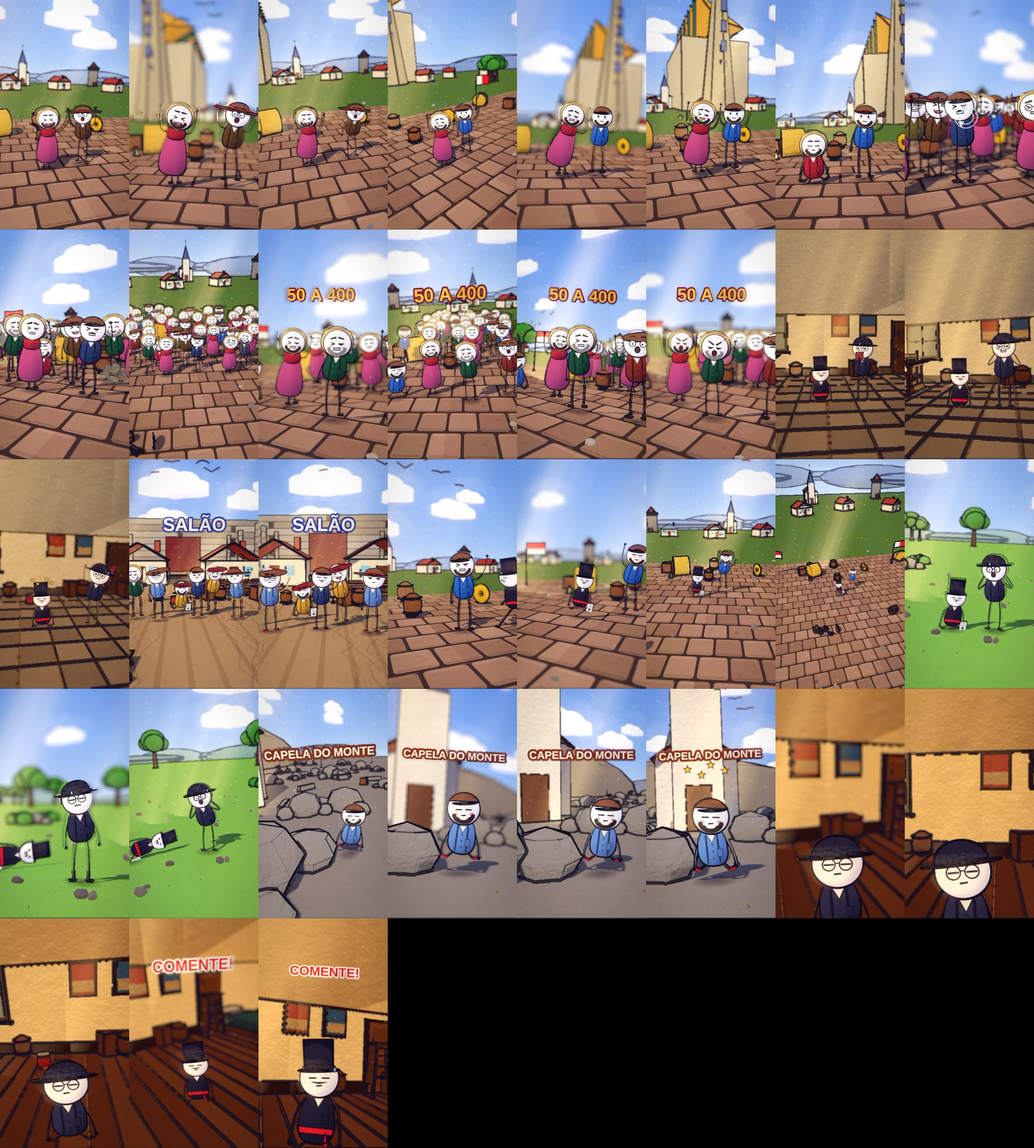
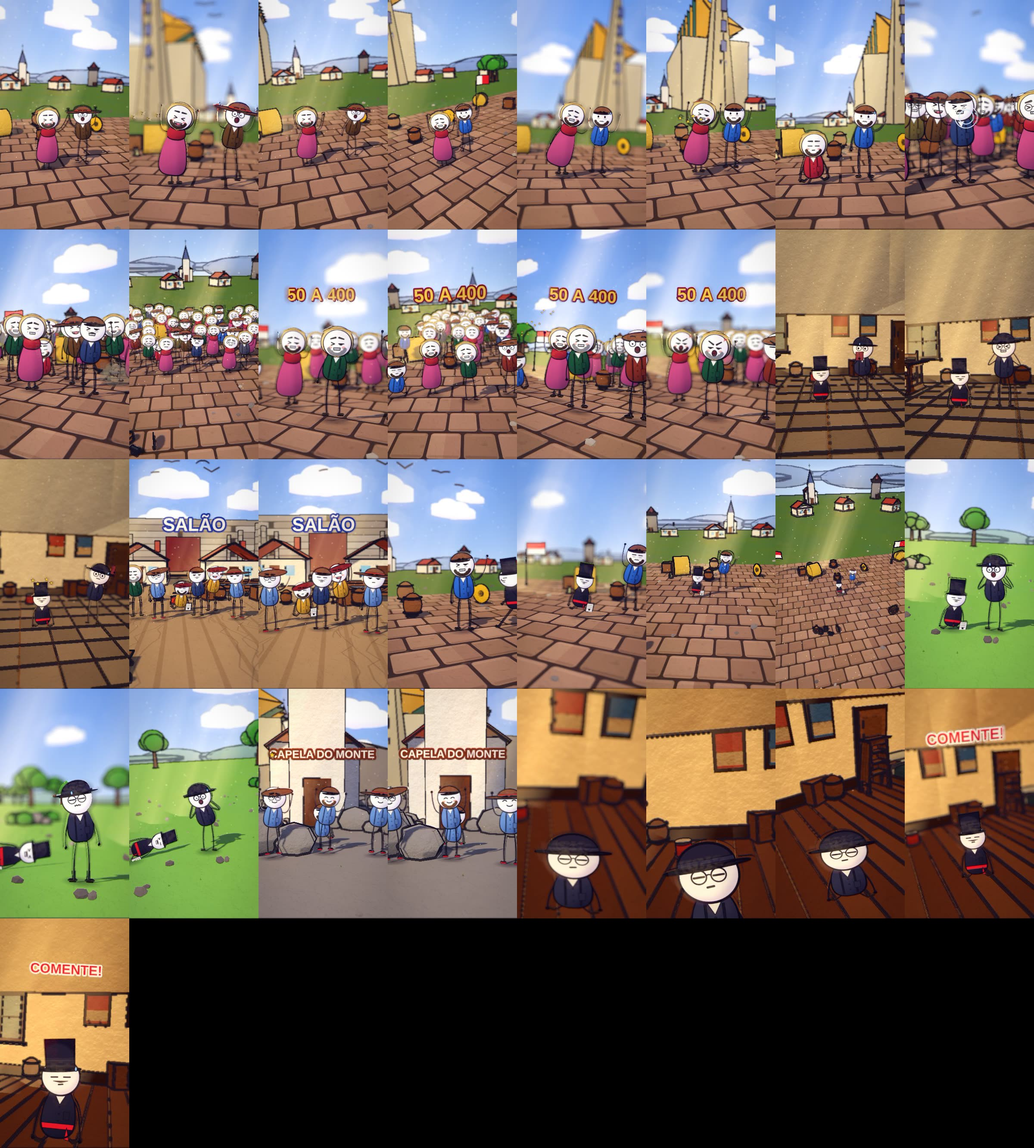
danca1518: refacao da lista unica, storyboard aprovado
Claude-Session: https://claude.ai/code/session_01HE8Dy2XpEMgdYAHCmWZFay

Changed region(s): [[0.0, 0.5917, 1.0, 1.0]]

diff --git a/ferramenta-shorts/web/story.js b/ferramenta-shorts/web/story.js
@@ -44,13 +44,14 @@ const SPEC = {
     { ...S('b5', A[5], A[6] - 1, X_hall, "day", { h: 2.4, d0: 20, d1: 16, el: 5, fov: 46, cx: 0.0, cz: -1.5, hero: { hero: 'none', wide: true }, vary: false, nocut: true, trans: 'dissolve', actors: [_MA(_MA(pp(X_hall, "MUS", 0, -1.0, -0.4, "grin", { over: { hold: "paper" }, pose: 'dance', acting: false }), { gests: [[WS(81) - 8, Math.max(WS(81) + 14, WS(85) - 5), 'up'], [WS(85) - 8, WS(85) + 46, 'up']] }), { poses: [[A[5], A[6] - 1, 'sleep']] }), _MA(pp(X_hall, "MUS", 1, 1.0, 0.2, "laugh", { pose: 'dance', acting: false }), { gests: [[WS(81) - 6, Math.max(WS(81) + 14, WS(85) - 5), 'up'], [WS(85) - 6, WS(85) + 46, 'up']] }), pp(X_hall, "POV", 0, -8.05, 0.84, "neutral", { look: -0.25, seed: 0, pose: 'dance', acting: false }), pp(X_hall, "DAN", 1, -5.79, 1.32, "neutral", { look: 0.25, seed: 4, pose: 'dance', acting: false }), pp(X_hall, "POV", 2, -3.53, 0.96, "neutral", { look: 0.0, seed: 8, pose: 'dance', acting: false }), pp(X_hall, "DAN", 3, -2.26, 1.44, "neutral", { look: 0.15, seed: 12, pose: 'dance', acting: false }), pp(X_hall, "POV", 4, 0.0, 1.08, "neutral", { look: -0.25, seed: 12, pose: 'dance', acting: false }), pp(X_hall, "DAN", 5, 2.26, 1.56, "neutral", { look: 0.25, seed: 16, pose: 'dance', acting: false })], props: [{ asset: "buildings/house_small", at: [X_hall + -6.0, -16.0], s: 1.2, drop: false }, { asset: "buildings/house_small", at: [X_hall + 6.0, -15.0], s: 1.2, drop: false }, { asset: "tools/lantern", at: [X_hall + 3.2, -6.4], s: 1.2 }], fx: [{ k: 'birds', a: A[5], b: A[6] - 1, at: [X_hall, DK + 7.5, -30], n: 6, dir: 1, off: 15 }, txt(X_hall, WS(75, -2), A[6] - 1, "SALÃO", '#fff6e0', '#27408b', 4.6, { s: 1.5, up: 0.42 }), { k: "stars", a: WS(81), b: WS(81) + 28, at: [X_hall + -8.05, DK + 0.5, 1.84], s: 1.9 }, { k: "stars", a: WS(85), b: WS(85) + 28, at: [X_hall + -3.53, DK + 0.5, 1.96], s: 1.9 }] }), nocut: true },
     { ...{ ...S('b6', A[6], Math.round(A[6] + (A[7] - 1 + 1 - (A[6])) * 0.3) - 1, X, "day", { h: 2.6, d0: 25.0, d1: 19.0, el: 11, fov: 46, az0: -38, az1: 32, cx: 0.0, cz: -1.5, hero: { hero: 'none', wide: true }, vary: false, nocut: true, trans: 'dissolve', actors: [_MA(_MA(_MA(pp(X, "PRE", 0, -1.0, -0.4, ((f) => f >= WS(96) - 4 ? "scared" : "stern"), { over: { hold: "paper" }, pose: 'dance', acting: false }), { gests: [[WS(88) - 8, Math.max(WS(88) + 14, WS(92) - 5), 'reach'], [WS(92) - 8, Math.max(WS(92) + 14, WS(94) - 5), 'point'], [WS(94) - 8, Math.max(WS(94) + 14, WS(107) - 5), 'up'], [WS(107) - 8, WS(107) + 46, 'up']] }), { poses: [[A[6], A[7] - 1, 'sleep']] }), { at: [X + 5.0, 0.5], move: [[X + -1.0, 1.3], Math.max(A[6], WS(92) - 30), WS(92) + 20, 'lin'], walk: 'stroll' }), _MA(pp(X, "POV", 0, 1.0, 0.2, ((f) => f >= WS(96) - 4 ? "scared" : "pained"), { pose: 'dance', acting: false }), { gests: [[WS(94) - 6, Math.max(WS(94) + 14, WS(107) - 5), 'up'], [WS(107) - 6, WS(107) + 46, 'up']] })], fx: [{ k: 'birds', a: A[6], b: A[7] - 1, at: [X, DK + 4.5, -30], n: 4, dir: -1, off: 8 }, { k: "dust", a: A[6] + 50, b: A[6] + 76, at: [X + 0.9, DK + 0.12, 1.0], s: 0.75 }, { k: "puff", a: A[6] + 110, b: A[6] + 136, at: [X + 0.9, DK + 0.12, 1.0], s: 0.75 }, { k: "stars", a: WS(94), b: WS(94) + 28, at: [X + -1.0, DK + 0.5, 2.5], s: 1.9 }, { k: "stars", a: WS(107), b: WS(107) + 28, at: [X + -1.0, DK + 0.5, 2.5], s: 1.9 }] }), nocut: true }, cam: [{ f: A[6], at: [X + 0.0, DK + 2.2, 0.5], d: 8.5, az: -26, el: 2, fov: 44 }, { f: Math.round(A[6] + (A[7] - 1 + 1 - (A[6])) * 0.3) - 1, at: [X + 1.0, DK + 2.2, 0.5], d: 7.4, az: -14, el: 3, fov: 44 }], nocut: true, vary: false }, { ...{ ...S('b6_1', Math.round(A[6] + (A[7] - 1 + 1 - (A[6])) * 0.3), Math.round(A[6] + (A[7] - 1 + 1 - (A[6])) * 0.55) - 1, X, "day", { h: 2.6, d0: 25.0, d1: 19.0, el: 11, fov: 46, az0: -38, az1: 32, cx: 0.0, cz: -1.5, hero: { hero: 'none', wide: true }, vary: false, nocut: true, trans: 'cut', actors: [_MA(_MA(_MA(pp(X, "PRE", 0, -1.0, -0.4, ((f) => f >= WS(96) - 4 ? "scared" : "stern"), { over: { hold: "paper" }, pose: 'dance', acting: false }), { gests: [[WS(88) - 8, Math.max(WS(88) + 14, WS(92) - 5), 'reach'], [WS(92) - 8, Math.max(WS(92) + 14, WS(94) - 5), 'point'], [WS(94) - 8, Math.max(WS(94) + 14, WS(107) - 5), 'up'], [WS(107) - 8, WS(107) + 46, 'up']] }), { poses: [[A[6], A[7] - 1, 'sleep']] }), { at: [X + 5.0, 0.5], move: [[X + -1.0, 1.3], Math.max(A[6], WS(92) - 30), WS(92) + 20, 'lin'], walk: 'stroll' }), _MA(pp(X, "POV", 0, 1.0, 0.2, ((f) => f >= WS(96) - 4 ? "scared" : "pained"), { pose: 'dance', acting: false }), { gests: [[WS(94) - 6, Math.max(WS(94) + 14, WS(107) - 5), 'up'], [WS(107) - 6, WS(107) + 46, 'up']] })], fx: [{ k: 'birds', a: A[6], b: A[7] - 1, at: [X, DK + 4.5, -30], n: 4, dir: -1, off: 8 }, { k: "dust", a: A[6] + 50, b: A[6] + 76, at: [X + 0.9, DK + 0.12, 1.0], s: 0.75 }, { k: "puff", a: A[6] + 110, b: A[6] + 136, at: [X + 0.9, DK + 0.12, 1.0], s: 0.75 }, { k: "stars", a: WS(94), b: WS(94) + 28, at: [X + -1.0, DK + 0.5, 2.5], s: 1.9 }, { k: "stars", a: WS(107), b: WS(107) + 28, at: [X + -1.0, DK + 0.5, 2.5], s: 1.9 }] }), nocut: true }, cam: [{ f: Math.round(A[6] + (A[7] - 1 + 1 - (A[6])) * 0.3), at: [X + -6.0, DK + 1.8, 0.0], d: 11, az: 30, el: 5, fov: 46 }, { f: Math.round(A[6] + (A[7] - 1 + 1 - (A[6])) * 0.55) - 1, at: [X + 4.0, DK + 1.8, 0.0], d: 11, az: 18, el: 5, fov: 46, ease: "lin" }], nocut: true, vary: false, glide: true }, { ...{ ...S('b6_2', Math.round(A[6] + (A[7] - 1 + 1 - (A[6])) * 0.55), A[7] - 1, X, "day", { h: 2.6, d0: 25.0, d1: 19.0, el: 11, fov: 46, az0: -38, az1: 32, cx: 0.0, cz: -1.5, hero: { hero: 'none', wide: true }, vary: false, nocut: true, trans: 'cut', actors: [_MA(_MA(_MA(pp(X, "PRE", 0, -1.0, -0.4, ((f) => f >= WS(96) - 4 ? "scared" : "stern"), { over: { hold: "paper" }, pose: 'dance', acting: false }), { gests: [[WS(88) - 8, Math.max(WS(88) + 14, WS(92) - 5), 'reach'], [WS(92) - 8, Math.max(WS(92) + 14, WS(94) - 5), 'point'], [WS(94) - 8, Math.max(WS(94) + 14, WS(107) - 5), 'up'], [WS(107) - 8, WS(107) + 46, 'up']] }), { poses: [[A[6], A[7] - 1, 'sleep']] }), { at: [X + 5.0, 0.5], move: [[X + -1.0, 1.3], Math.max(A[6], WS(92) - 30), WS(92) + 20, 'lin'], walk: 'stroll' }), _MA(pp(X, "POV", 0, 1.0, 0.2, ((f) => f >= WS(96) - 4 ? "scared" : "pained"), { pose: 'dance', acting: false }), { gests: [[WS(94) - 6, Math.max(WS(94) + 14, WS(107) - 5), 'up'], [WS(107) - 6, WS(107) + 46, 'up']] })], fx: [{ k: 'birds', a: A[6], b: A[7] - 1, at: [X, DK + 4.5, -30], n: 4, dir: -1, off: 8 }, { k: "dust", a: A[6] + 50, b: A[6] + 76, at: [X + 0.9, DK + 0.12, 1.0], s: 0.75 }, { k: "puff", a: A[6] + 110, b: A[6] + 136, at: [X + 0.9, DK + 0.12, 1.0], s: 0.75 }, { k: "stars", a: WS(94), b: WS(94) + 28, at: [X + -1.0, DK + 0.5, 2.5], s: 1.9 }, { k: "stars", a: WS(107), b: WS(107) + 28, at: [X + -1.0, DK + 0.5, 2.5], s: 1.9 }] }), nocut: true }, cam: [{ f: Math.round(A[6] + (A[7] - 1 + 1 - (A[6])) * 0.55), at: [X + 0.0, DK + 1.4, 0.0], d: 15, az: 8, el: 12, fov: 48 }, { f: A[7] - 1, at: [X + 0.0, DK + 1.0, -3.0], d: 34, az: -16, el: 30, fov: 48 }], nocut: true, vary: false, glide: true },
     S('b7', A[7], A[8] - 1, X_loc_campo, "day", { h: 2.3, d0: 9.8, d1: 8.8, az0: 24, az1: 10, vary: false, hero: { hero: 'any', frame: 'medium', minH: 0.07, main: 2 }, trans: 'dissolve', actors: [_MA(pp(X_loc_campo, "PRE", 0, -1.0, 1.3, "pained", { over: { hold: "paper" }, inter: { k: 'lunge', a: Math.round(A[7] + (A[8] - 1 - (A[7])) * 0.12), b: Math.round(A[7] + (A[8] - 1 - (A[7])) * 0.82), dir: 1, n: 2, ph: 0 } }), { poses: [[A[7], A[8] - 1, 'sleep'], [WS(113) + 2, A[8] - 1, 'fall']] }), pp(X_loc_campo, "MED", 0, 1.0, 1.0, "shock", { pose: 'react', inter: { k: 'lunge', a: Math.round(A[7] + (A[8] - 1 - (A[7])) * 0.2), b: Math.round(A[7] + (A[8] - 1 - (A[7])) * 0.9), dir: -1, n: 2, ph: 3.14 } })], fx: [{ k: 'dust', a: WS(113) + 4, b: WS(113) + 30, at: [X_loc_campo + -0.4, DK + 0.1, 1.6], s: 0.8 }] }),
-    { ...S('b8', A[8], A[9] - 1, X_mountain, "day", { h: 4.0, d0: 21.0, d1: 20.0, el: 5, fov: 46, cx: 0.0, cz: -2.0, hero: { hero: 'none', wide: true }, vary: false, nocut: true, trans: 'dissolve', actors: [_MA(_MA(pp(X_mountain, "DAN", 0, 0.0, -0.4, "relief", { pose: 'dance', acting: false }), { gests: [[WS(128) - 8, Math.max(WS(128) + 14, WS(145) - 5), 'up'], [WS(145) - 8, WS(145) + 46, 'up']] }), { poses: [[A[8], A[9] - 1, 'sleep']] })], props: [{ asset: "buildings/church", at: [X_mountain + 0.0, -22.1], s: 1.3, fixo: true, drop: false }, { asset: "kit/marco_viena", at: [X_mountain + -20, -80], s: 1.0, drop: false }], fx: [{ k: 'birds', a: A[8], b: A[9] - 1, at: [X_mountain, DK + 7.5, -30], n: 6, dir: 1, off: 8 }, txt(X_mountain, WS(125, -2), A[9] - 1, "CAPELA DO MONTE", '#fff6e0', '#7a3a1c', 4.6, { s: 1.5, up: 0.42 }), { k: "stars", a: WS(128), b: WS(128) + 28, at: [X_mountain + 0.0, DK + 0.5, 2.5], s: 1.9 }, { k: "stars", a: WS(145), b: WS(145) + 28, at: [X_mountain + 0.0, DK + 0.5, 2.5], s: 1.9 }] }), nocut: true },
+    { ...S('b8', A[8], A[9] - 1, X_mountain, "day", { h: 2.2, d0: 14.0, d1: 13.0, el: 5, fov: 46, cx: 0.0, cz: 0.0, hero: { hero: 'none', wide: true }, vary: false, nocut: true, trans: 'dissolve', actors: [_MA(_MA(pp(X_mountain, "DAN", 0, 0.0, -0.4, "relief", { pose: 'dance', acting: false }), { gests: [[WS(128) - 8, Math.max(WS(128) + 14, WS(145) - 5), 'up'], [WS(145) - 8, WS(145) + 46, 'up']] }), { poses: [[A[8], A[9] - 1, 'sleep']] }), pp(X_mountain, "DAN", 0, -8.05, 0.84, "relief", { look: -0.25, seed: 0, pose: 'dance', acting: false }), pp(X_mountain, "DAN", 1, -5.79, 1.32, "relief", { look: 0.25, seed: 4, pose: 'dance', acting: false }), pp(X_mountain, "DAN", 2, -3.53, 0.96, "relief", { look: 0.0, seed: 8, pose: 'dance', acting: false }), pp(X_mountain, "DAN", 3, -2.26, 1.44, "relief", { look: 0.15, seed: 12, pose: 'dance', acting: false }), pp(X_mountain, "DAN", 4, 0.0, 1.08, "relief", { look: -0.25, seed: 12, pose: 'dance', acting: false }), pp(X_mountain, "DAN", 5, 2.26, 1.56, "relief", { look: 0.25, seed: 16, pose: 'dance', acting: false })], props: [{ asset: "buildings/church", at: [X_mountain + 0.0, -14.0], s: 1.3, fixo: true, drop: false }, { asset: "kit/marco_viena", at: [X_mountain + -20, -80], s: 1.0, drop: false }], fx: [{ k: 'birds', a: A[8], b: A[9] - 1, at: [X_mountain, DK + 7.5, -30], n: 6, dir: 1, off: 8 }, txt(X_mountain, WS(125, -2), A[9] - 1, "CAPELA DO MONTE", '#fff6e0', '#7a3a1c', 4.6, { s: 1.5, up: 0.42 }), { k: "stars", a: WS(128), b: WS(128) + 28, at: [X_mountain + -2.26, DK + 0.5, 2.44], s: 1.9 }, { k: "stars", a: WS(145), b: WS(145) + 28, at: [X_mountain + 0.0, DK + 0.5, 2.08], s: 1.9 }] }), nocut: true },
     S('b9', A[9], A[10] - 1, X_hall, "study", { h: 2.55, d0: 3.5, d1: 2.9, az0: -13, az1: -7, hero: { hero: 'any', frame: 'medium', minH: 0.07, main: 1 }, trans: 'dissolve', actors: [_MA(pp(X_hall, "MED", 0, 0.0, 1.3, ((f) => f >= WS(149) - 4 ? "distrust" : "nervous"), { pose: 'react' }), { poses: [[A[9], A[10] - 1, 'sleep']] })], props: [{ asset: "kit/room_europa_wood", at: [X_hall, 0], s: 1, drop: false }, { asset: "mk/Cabinet", at: [X_hall + -7.2, -3.3], s: 2.3, drop: false }, { asset: "mk/Bed_Twin1", at: [X_hall + 7.0, -2.4], s: 2.1, drop: false }, { asset: "mk/Nightstand_Shelf", at: [X_hall + 4.6, -3.2], s: 2.2, drop: false }, { asset: "mk/CandleStick_Stand", at: [X_hall + -4.8, -2.8], s: 2.2, drop: false }, { asset: "mk/Barrel", at: [X_hall + -7.4, 0.8], s: 2.0, drop: false }] }),
     S('b10', A[10], A[11] - 1, X_hall, "study", { h: 2.4, d0: 6.4, d1: 5.6, az0: -2, az1: 3, hero: { hero: 'any', frame: 'medium', minH: 0.07, main: 1 }, trans: 'dissolve', actors: [_MA(pp(X_hall, "PRE", 0, 0.0, 1.3, "grin", { pose: 'talk' }), { poses: [[A[10], A[11] - 1, 'sleep']] })], props: [{ asset: "kit/room_europa_wood", at: [X_hall, 0], s: 1, drop: false }, { asset: "mk/Cabinet", at: [X_hall + -7.2, -3.3], s: 2.3, drop: false }, { asset: "mk/Bed_Twin1", at: [X_hall + 7.0, -2.4], s: 2.1, drop: false }, { asset: "mk/Nightstand_Shelf", at: [X_hall + 4.6, -3.2], s: 2.2, drop: false }, { asset: "mk/CandleStick_Stand", at: [X_hall + -4.8, -2.8], s: 2.2, drop: false }, { asset: "mk/Barrel", at: [X_hall + -7.4, 0.8], s: 2.0, drop: false }], fx: [txt(X_hall, WS(161, -2), A[11] - 1, "COMENTE!", '#d8282f', '#fff6e0', 4.6, { s: 1.5, up: 0.55 })] })
   ],
 };
 
 // FOLHA3 dac783f1a1f3 55 acoes=55 faltando=0
+SPEC.fit = {"b2":1.254,"b2_1":1.12,"b6":1.254,"b6_1":1.254,"b6_2":1.254,"b9":1.12,"b9~1":1.404,"b9~2":1.254};
 // ===== STORY RUNTIME (generic): turns a declarative SPEC (stories/<id>.spec.js, concatenated before this file) into the story.js interface the engine expects =====
 import { camFromKeys, clamp, lerp, ramp, q, blinkAt, idle, M } from './motion.js';
 export const FPS = 30, TOTAL = SPEC.total, DECK = 6;

diff --git a/ferramenta-shorts/stories/danca1518/revisao_storyboard.md b/ferramenta-shorts/stories/danca1518/revisao_storyboard.md
@@ -2,11 +2,11 @@ pesquisa: o quadro de referencias mostra casas de enxaimel e ruas estreitas de E
 defeitos procurados: cenario (casas baixas com igreja e torre do set medieval, campo aberto, salao e salas de pedra e madeira, sem predio moderno nem poste), epoca (roupas de camponeses do seculo 16, sem objeto moderno), tamanho (personagens do mesmo porte, multidao em escala), cortado (ninguem cortado nas bordas nos quadros vistos), multidao (b3 e b6 dezenas de dancarinos de roupas variadas, sem clones da mulher principal), legenda (50 A 400 e SALAO acima da faixa da legenda), acao (dancar, cair de exaustao, medico examinando), objeto (sapatos vermelhos nao aparecem como objeto: limite dos props).
 b0: OK - uma mulher comecou a dancar no meio da rua e nao conseguiu parar: a mulher de vestido rosa dancando de bracos erguidos ao lado de um homem na praca de pedras com igreja ao fundo.
 b1: OK - em julho de mil quinhentos e dezoito em Estrasburgo ela dancou uma semana: mapa com o pino de Estrasburgo e a mulher de rosto cansado na praca.
-b2: OK - em poucos dias mais de trinta pessoas dancavam incluindo o marido: grupo de dancarinos de colete em campo aberto, expressoes variadas.
-b3: CORRIGIDO - em agosto de cinquenta a quatrocentas pessoas dancavam com os pes sangrando pedindo socorro: antes a multidao saia cortada na borda -> agora quatro dancarinos inteiros no campo com o texto 50 A 400.
+b2: CORRIGIDO - em poucos dias mais de trinta pessoas dancavam tambem incluindo o marido dela: antes quatro pessoas num campo verde -> agora rua de pedra de Estrasburgo com multidao de dancarinos de bracos erguidos e a igreja ao fundo.
+b3: CORRIGIDO - em agosto de cinquenta a quatrocentas pessoas dancavam com os pes sangrando pedindo socorro: antes poucos no campo e plano aberto minusculo -> agora multidao grande na rua com o texto 50 A 400, camera fixa sem abrir.
 b4: OK - o conselho da cidade chamou os medicos que culparam o sangue quente: conselheiro de cartola e medico de chapeu escuro numa sala de pedra.
 b5: OK - a cidade reformou saloes e contratou musicos para manter os dancarinos de pe: musicos de gibao amarelo em plano aberto com a placa SALAO.
-b6: CORRIGIDO - deu errado mais gente entrou na danca com medo de Sao Vito e o conselho proibiu dancar em publico: antes pessoas cortadas na borda -> agora quatro dancarinos inteiros na praca medieval.
+b6: CORRIGIDO - deu errado mais gente entrou na danca com medo de um castigo de Sao Vito e o conselho proibiu dancar em publico: antes gente minuscula -> agora o conselheiro de chapeu preto com papel diante de um dancarino, plano medio.
 b7: OK - alguns dizem que morriam quinze por dia mas os documentos nao citam mortes: o conselheiro de cartola caido de exaustao ao lado do medico de chapeu escuro na praca.
-b8: CORRIGIDO - no fim os dancarinos foram levados a uma capela no alto de um monte e a danca parou: antes so a capela vazia -> agora a capela do monte com o texto CAPELA DO MONTE e um dancarino aliviado na frente.
+b8: CORRIGIDO - no fim os dancarinos foram levados a uma capela no alto de um monte com sapatos vermelhos bencoados e a danca parou: antes um homem so sem sapato vermelho -> agora varios dancarinos de botas vermelhas diante da capela com o texto CAPELA DO MONTE.
 b9: OK - hoje se suspeita de histeria coletiva mas ninguem sabe ao certo: medico de oculos serio em close numa sala de madeira, sem personagens em estudio.
